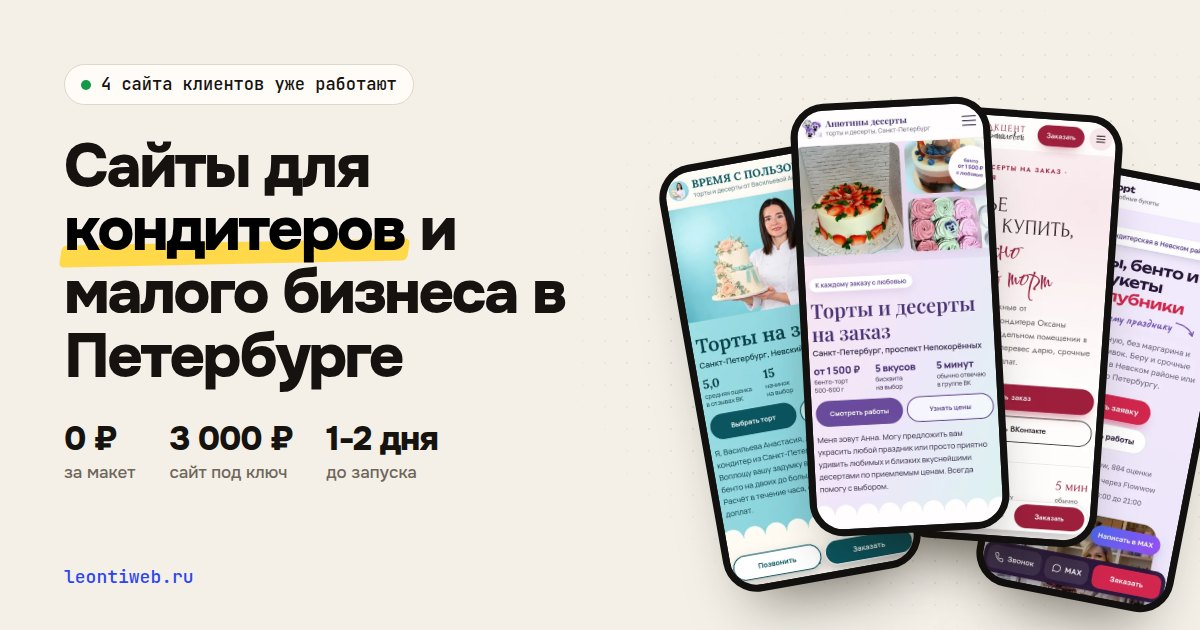
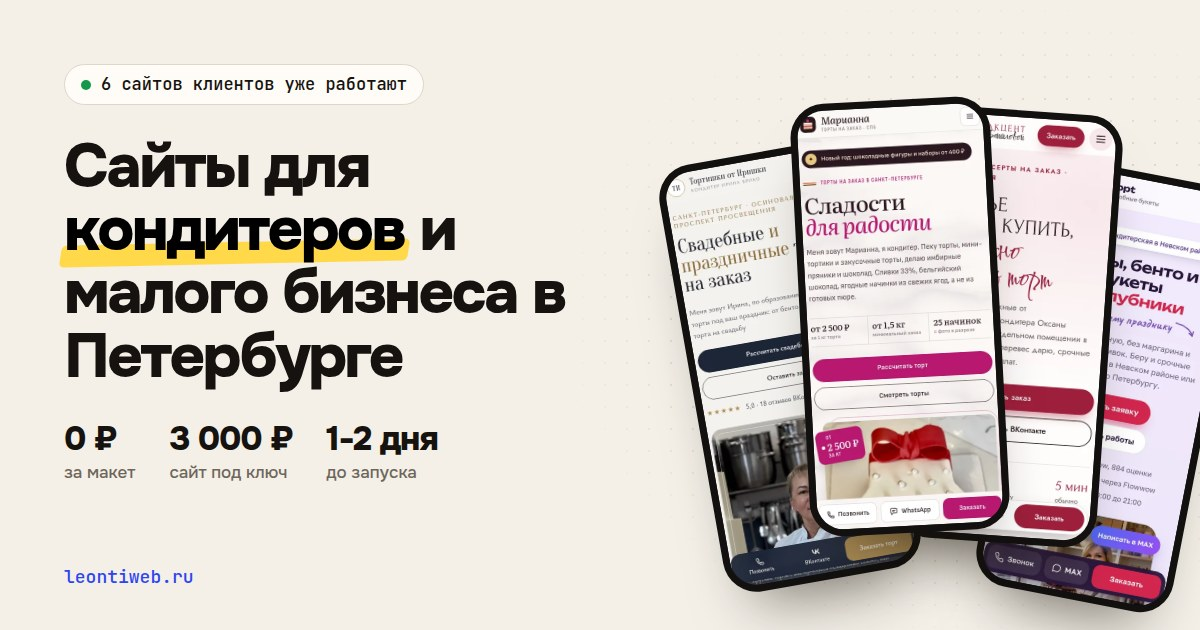
portfolio: 6 client sites, add marianna-torty.ru and tortishki-irishki.ru cases

Changed region(s): [[0.555, 0.181, 0.8325, 0.9349], [0.1233, 0.1206, 0.3392, 0.1508], [0.0617, 0.1206, 0.0925, 0.1508]]

diff --git a/index.html b/index.html
@@ -9,7 +9,7 @@
 <meta property="og:type" content="website">
 <meta property="og:url" content="https://leontiweb.ru/">
 <meta property="og:title" content="Сайты для кондитеров и малого бизнеса в Петербурге">
-<meta property="og:description" content="Бесплатный макет на ваших фото. Сайт под ключ за 3 000 ₽, оплата после запуска. 4 сайта клиентов уже работают.">
+<meta property="og:description" content="Бесплатный макет на ваших фото. Сайт под ключ за 3 000 ₽, оплата после запуска. 6 сайтов клиентов уже работают.">
 <meta property="og:image" content="https://leontiweb.ru/img/og.jpg">
 <meta property="og:image:width" content="1200">
 <meta property="og:image:height" content="630">
@@ -380,7 +380,7 @@
 <section class="hero" id="hero">
   <div class="w hero-grid">
     <div>
-      <p class="live"><span class="dot"></span>Сейчас работают 4 сайта клиентов</p>
+      <p class="live"><span class="dot"></span>Сейчас работают 6 сайтов клиентов</p>
       <h1>Сайты для <mark>кондитеров</mark> и&nbsp;малого бизнеса в&nbsp;Петербурге</h1>
       <p class="lead">Сначала соберу бесплатный макет на ваших фото и ценах. Понравится, запущу сайт на вашем домене, и только потом вы платите.</p>
       <div class="acts">
@@ -394,8 +394,8 @@
       </dl>
     </div>
     <div class="fan" aria-hidden="true">
-      <div class="ph p1"><img src="img/vremya-mob.webp" alt="" width="440" height="952" decoding="async"></div>
-      <div class="ph p2"><img src="img/anyuta-mob.webp" alt="" width="440" height="952" decoding="async"></div>
+      <div class="ph p1"><img src="img/irishka-mob.webp" alt="" width="440" height="952" decoding="async"></div>
+      <div class="ph p2"><img src="img/marianna-mob.webp" alt="" width="440" height="952" decoding="async"></div>
       <div class="ph p3"><img src="img/sladkiy-mob.webp" alt="" width="440" height="952" decoding="async"></div>
       <div class="ph p4"><img src="img/mikkitopt-mob.webp" alt="" width="440" height="952" decoding="async"></div>
     </div>
@@ -405,7 +405,9 @@
 <section aria-label="Сайты клиентов, которые уже работают">
   <div class="w">
     <div class="board rv">
-      <div class="board-h"><span>Сайты клиентов</span><span><span class="dot"></span>4 из 4 работают</span></div>
+      <div class="board-h"><span>Сайты клиентов</span><span><span class="dot"></span>6 из 6 работают</span></div>
+      <a class="row" href="https://marianna-torty.ru/" target="_blank" rel="noopener"><span class="dom"><span class="dot"></span>marianna-torty.ru</span><span class="info"><b>Торты Марианны</b><span>торты и пряники, бульвар Новаторов</span></span><span class="since">с 8 ноября</span><svg class="ic go"><use href="#i-out"/></svg></a>
+      <a class="row" href="https://tortishki-irishki.ru/" target="_blank" rel="noopener"><span class="dom"><span class="dot"></span>tortishki-irishki.ru</span><span class="info"><b>Тортишки от Иришки</b><span>свадебные торты, Осиновая Роща</span></span><span class="since">с 8 ноября</span><svg class="ic go"><use href="#i-out"/></svg></a>
       <a class="row" href="https://sladkiy-akcent.ru/" target="_blank" rel="noopener"><span class="dom"><span class="dot"></span>sladkiy-akcent.ru</span><span class="info"><b>Сладкий акцент</b><span>торты и десерты у метро Звёздная</span></span><span class="since">с 7 ноября</span><svg class="ic go"><use href="#i-out"/></svg></a>
       <a class="row" href="https://mikkitopt.ru/" target="_blank" rel="noopener"><span class="dom"><span class="dot"></span>mikkitopt.ru</span><span class="info"><b>Mikkitopt</b><span>торты и съедобные букеты, Невский район</span></span><span class="since">с 7 ноября</span><svg class="ic go"><use href="#i-out"/></svg></a>
       <a class="row" href="https://anyutiny-deserty.ru/" target="_blank" rel="noopener"><span class="dom"><span class="dot"></span>anyutiny-deserty.ru</span><span class="info"><b>Анютины десерты</b><span>торты и десерты, проспект Непокорённых</span></span><span class="since">со 2 ноября</span><svg class="ic go"><use href="#i-out"/></svg></a>
@@ -424,12 +426,54 @@
     <div class="cases">
 
       <article class="case">
+        <div class="stage rv" style="--tint:#F5E0EB">
+          <div class="browser"><div class="bar"><i></i><i></i><i></i><span class="url"><svg class="ic"><use href="#i-lock"/></svg>marianna-torty.ru</span></div><img src="img/marianna-desk.webp" alt="Главная страница сайта Торты Марианны" width="1280" height="800" loading="lazy" decoding="async"></div>
+          <div class="ph"><img src="img/marianna-mob.webp" alt="Сайт Торты Марианны на телефоне" width="440" height="952" loading="lazy" decoding="async"></div>
+        </div>
+        <div class="rv">
+          <p class="num"><b>01</b><span class="since">работает с 8 ноября 2026</span></p>
+          <h3>Торты Марианны</h3>
+          <p class="who">Марианна, торты, пряники и шоколад на заказ, бульвар Новаторов</p>
+          <p class="was"><b>Было:</b> группа ВКонтакте, заказы только через сообщения, своего сайта не было. Макет, правки и запуск уложились в один день.</p>
+          <ul class="did">
+            <li>57 тортов по разделам, цена от 2 500 ₽ за кг видна сразу</li>
+            <li>25 начинок в разрезе: настоящее фото и схема слоёв у каждой</li>
+            <li>Корпусные десерты, бенто, закусочные торты и новогодняя витрина</li>
+            <li>Калькулятор торта: вес и начинка, расчёт уходит в заявку</li>
+            <li>Заявки сразу в сообщения ВКонтакте, свой домен и Яндекс Метрика</li>
+          </ul>
+          <div class="case-acts"><a class="btn btn-ink" href="https://marianna-torty.ru/" target="_blank" rel="noopener">Открыть сайт<svg class="ic"><use href="#i-out"/></svg></a><a class="btn btn-ghost" href="https://vk.ru/wall-242798044_9" target="_blank" rel="noopener">Кейс во ВКонтакте</a></div>
+        </div>
+      </article>
+
+      <article class="case">
+        <div class="stage rv" style="--tint:#EFE7D8">
+          <div class="browser"><div class="bar"><i></i><i></i><i></i><span class="url"><svg class="ic"><use href="#i-lock"/></svg>tortishki-irishki.ru</span></div><img src="img/irishka-desk.webp" alt="Главная страница сайта Тортишки от Иришки" width="1280" height="800" loading="lazy" decoding="async"></div>
+          <div class="ph"><img src="img/irishka-mob.webp" alt="Сайт Тортишки от Иришки на телефоне" width="440" height="952" loading="lazy" decoding="async"></div>
+        </div>
+        <div class="rv">
+          <p class="num"><b>02</b><span class="since">работает с 8 ноября 2026</span></p>
+          <h3>Тортишки от Иришки</h3>
+          <p class="who">Ирина Брико, свадебные и праздничные торты, Осиновая Роща</p>
+          <p class="was"><b>Было:</b> 1,7 тыс. подписчиков и рейтинг 5,0 по 18 отзывам ВКонтакте, но заказы только через сообщения, своего сайта не было.</p>
+          <ul class="did">
+            <li>Конструктор свадебного торта: гости, ярусы, покрытие и декор, торт рисуется на экране и сразу считается цена</li>
+            <li>66 работ по разделам: свадьбы, взрослым, детям, бенто, капкейки</li>
+            <li>22 начинки с фильтрами: ягодные, шоколадные, без сахара и глютена</li>
+            <li>Понятный прайс, отзывы из группы, самовывоз на карте</li>
+            <li>Заявки сразу в сообщения ВКонтакте, свой домен и Яндекс Метрика</li>
+          </ul>
+          <div class="case-acts"><a class="btn btn-ink" href="https://tortishki-irishki.ru/" target="_blank" rel="noopener">Открыть сайт<svg class="ic"><use href="#i-out"/></svg></a><a class="btn btn-ghost" href="https://vk.ru/wall-242798044_8" target="_blank" rel="noopener">Кейс во ВКонтакте</a></div>
+        </div>
+      </article>
+
+      <article class="case">
         <div class="stage rv" style="--tint:#F3E1E5">
           <div class="browser"><div class="bar"><i></i><i></i><i></i><span class="url"><svg class="ic"><use href="#i-lock"/></svg>sladkiy-akcent.ru</span></div><img src="img/sladkiy-desk.webp" alt="Главная страница сайта Сладкий акцент" width="1280" height="800" loading="lazy" decoding="async"></div>
           <div class="ph"><img src="img/sladkiy-mob.webp" alt="Сайт Сладкий акцент на телефоне" width="440" height="952" loading="lazy" decoding="async"></div>
         </div>
         <div class="rv">
-          <p class="num"><b>01</b><span class="since">работает с 7 ноября 2026</span></p>
+          <p class="num"><b>03</b><span class="since">работает с 7 ноября 2026</span></p>
           <h3>Сладкий акцент</h3>
           <p class="who">Оксана Башилова, торты и десерты на заказ у метро Звёздная</p>
           <p class="was"><b>Было:</b> 763 подписчика в группе ВКонтакте, заказы только через сообщения, своего сайта не было.</p>
@@ -451,7 +495,7 @@
           <div class="ph"><img src="img/mikkitopt-mob.webp" alt="Сайт Mikkitopt на телефоне" width="440" height="952" loading="lazy" decoding="async"></div>
         </div>
         <div class="rv">
-          <p class="num"><b>02</b><span class="since">работает с 7 ноября 2026</span></p>
+          <p class="num"><b>04</b><span class="since">работает с 7 ноября 2026</span></p>
           <h3>Mikkitopt</h3>
           <p class="who">Катерина, торты, бенто и съедобные букеты, Невский район</p>
           <p class="was"><b>Было:</b> заказы шли через маркетплейс Flowwow с его комиссией и через сообщения, своего сайта не было.</p>
@@ -472,7 +516,7 @@
           <div class="ph"><img src="img/anyuta-mob.webp" alt="Сайт Анютины десерты на телефоне" width="440" height="952" loading="lazy" decoding="async"></div>
         </div>
         <div class="rv">
-          <p class="num"><b>03</b><span class="since">работает со 2 ноября 2026</span></p>
+          <p class="num"><b>05</b><span class="since">работает со 2 ноября 2026</span></p>
           <h3>Анютины десерты</h3>
           <p class="who">Анна, торты, бенто и зефир на заказ у проспекта Непокорённых</p>
           <p class="was"><b>Было:</b> заказы через группу ВКонтакте, своего сайта не было. От макета до запуска прошло два дня.</p>
@@ -494,7 +538,7 @@
           <div class="ph"><img src="img/vremya-mob.webp" alt="Сайт Время с пользой на телефоне" width="440" height="952" loading="lazy" decoding="async"></div>
         </div>
         <div class="rv">
-          <p class="num"><b>04</b><span class="since">работает с 31 октября 2026</span></p>
+          <p class="num"><b>06</b><span class="since">работает с 31 октября 2026</span></p>
           <h3>Время с пользой</h3>
           <p class="who">Анастасия Васильева, торты и десерты на заказ, Невский район</p>
           <p class="was"><b>Было:</b> заказы через группу ВКонтакте, своего сайта не было.</p>

diff --git a/raboty/index.html b/raboty/index.html
@@ -13,7 +13,7 @@
 <meta property="og:type" content="website">
 <meta property="og:url" content="https://leontiweb.ru/">
 <meta property="og:title" content="Сайты для кондитеров и малого бизнеса в Петербурге">
-<meta property="og:description" content="Бесплатный макет на ваших фото. Сайт под ключ за 3 000 ₽, оплата после запуска. 4 сайта клиентов уже работают.">
+<meta property="og:description" content="Бесплатный макет на ваших фото. Сайт под ключ за 3 000 ₽, оплата после запуска. 6 сайтов клиентов уже работают.">
 <meta property="og:image" content="https://leontiweb.ru/img/og.jpg">
 <meta property="og:image:width" content="1200">
 <meta property="og:image:height" content="630">
